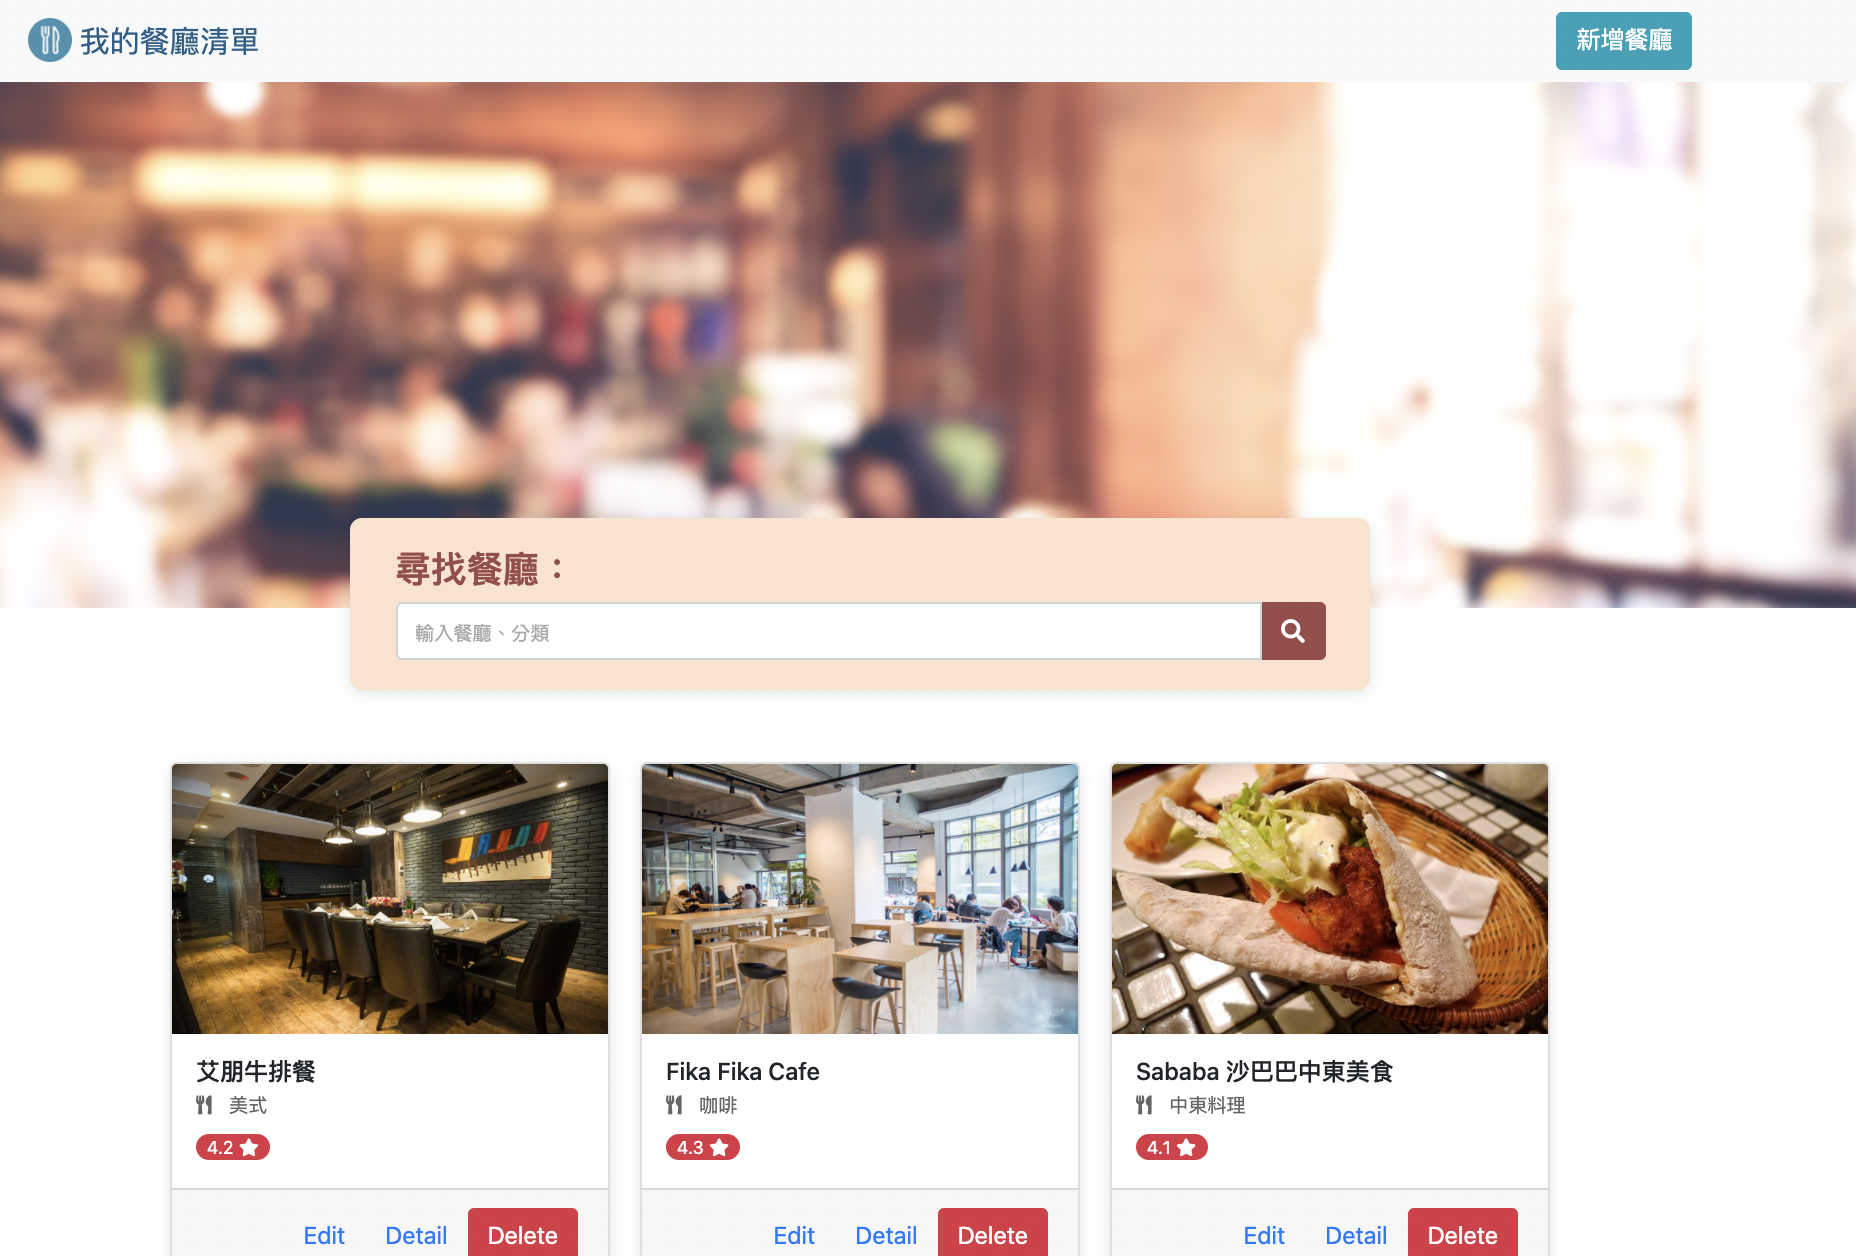
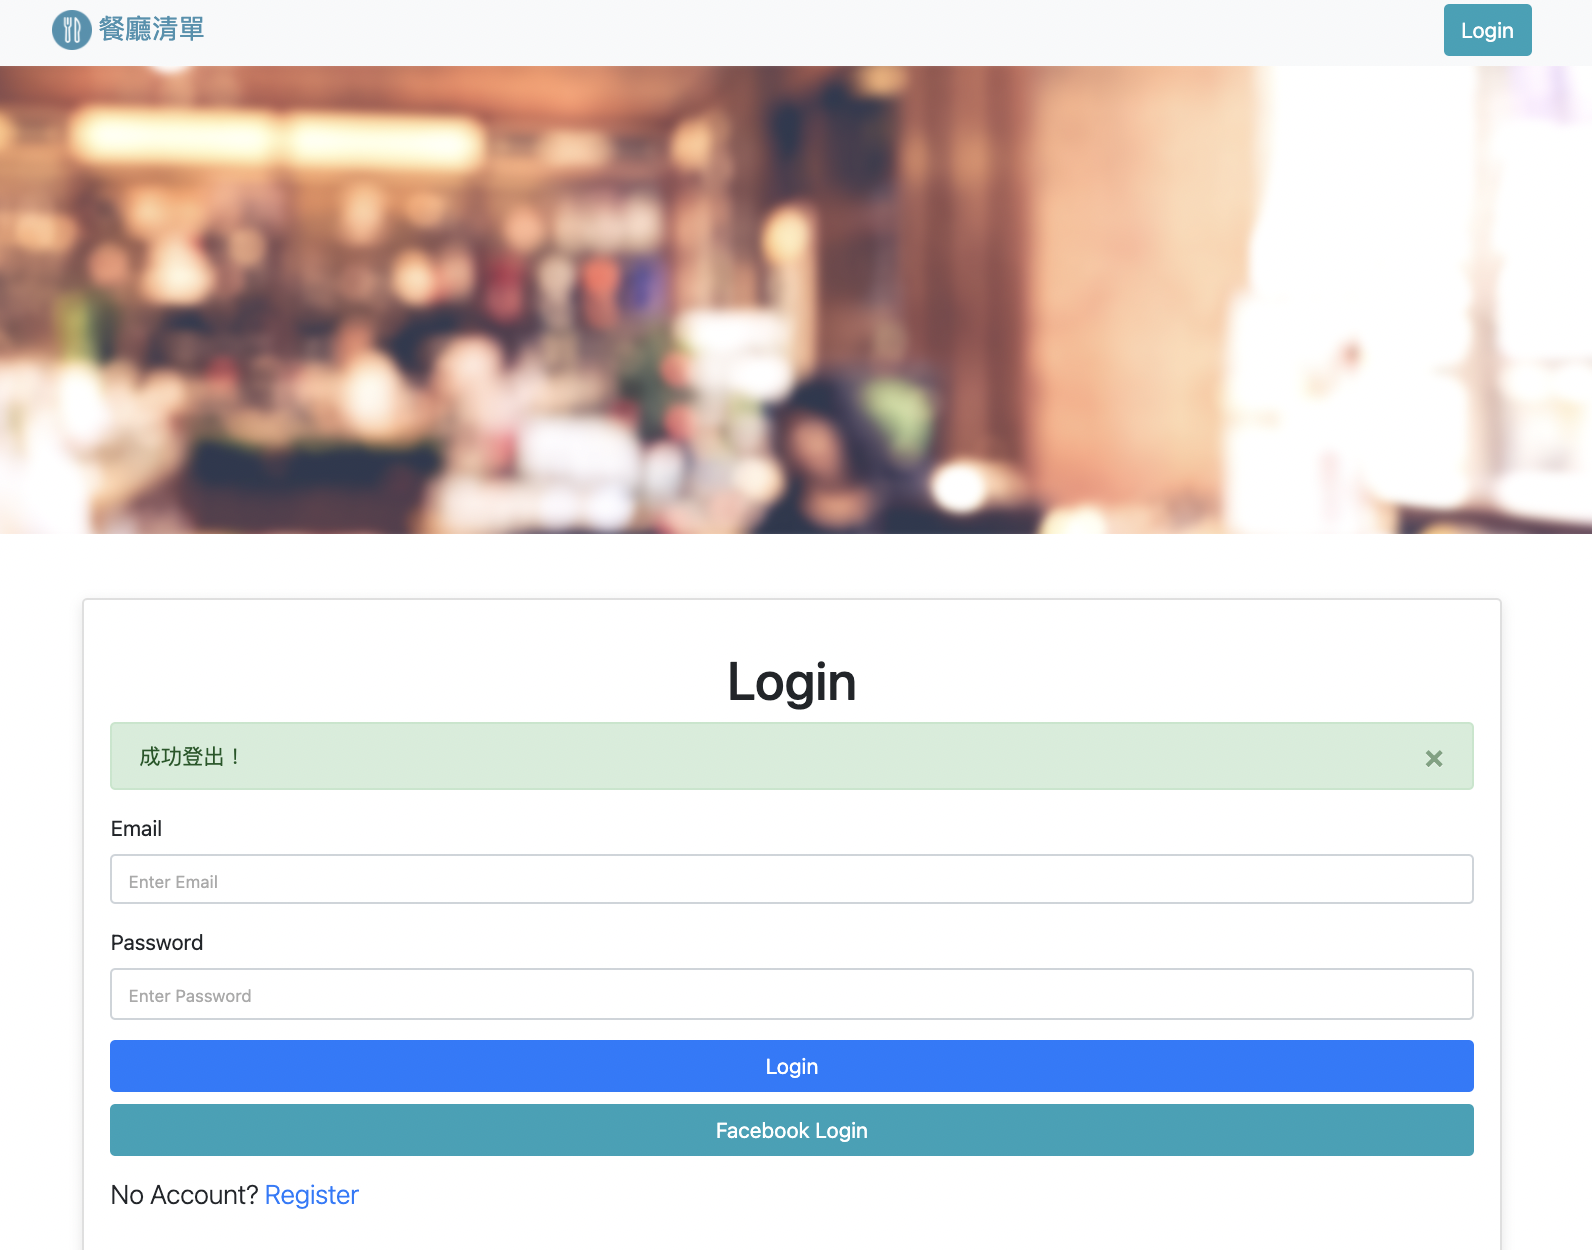
Add: README.md

diff --git a/routes/modules/home.js b/routes/modules/home.js
@@ -14,6 +14,7 @@ router.get('/', (req, res) => {
 
 // 搜尋
 router.get('/search', (req, res) => {
+  const userId = req.user._id
   const keyword = req.query.keyword.trim().toLowerCase()
   const sort = req.query.sort
   let sortingMethod = {}
@@ -32,12 +33,12 @@ router.get('/search', (req, res) => {
       break;
   }
   Restaurant
-    .find()
+    .find({userId})
     .lean()
     .sort(sortingMethod)
     .then(items => {
       const restaurants = items.filter(item => item.name.trim().toLowerCase().includes(keyword) || item.category.trim().toLowerCase().includes(keyword))
-      res.render('index', { restaurantList: restaurants})
+      res.render('index', { restaurantList: restaurants, keyword})
     })
     .catch(err => console.log(err))
 })

diff --git a/config/mongoose.js b/config/mongoose.js
@@ -1,3 +1,6 @@
+if (process.env.NODE_ENV !== 'production') {
+  require('dotenv').config()
+}
 const mongoose = require('mongoose')
 const MONGODB_URI = process.env.MONGODB_URI
 mongoose.connect(MONGODB_URI)

diff --git a/README.md b/README.md
@@ -4,7 +4,7 @@
 
 ## 介紹
 
-紀錄屬於自己的餐廳清單，可以瀏覽餐廳、查看詳細資訊、甚至連結到地圖。
+紀錄屬於自己的餐廳清單，可以在此網站上擁有自己的帳號管理餐廳名單，並且能夠瀏覽餐廳、查看詳細資訊、甚至連結到地圖。
 
 ### 功能
 
@@ -15,6 +15,9 @@
 - 新增餐廳
 - 編輯餐廳
 - 刪除餐廳
+- 登入與登出
+- 註冊帳號
+- 可用 Facebook 登入
 
 ## 開始使用
 
@@ -29,7 +32,7 @@
 4. 安裝完畢後，繼續輸入：
 
    ```bash
-   npm run start
+   npm run dev
    ```
 
 5. 若看見此行訊息則代表順利運行，打開瀏覽器進入到以下網址
@@ -38,7 +41,12 @@
    Listening on http://localhost:3000
    ```
 
-6. 若欲暫停使用
+6. 建立種子使用者資料，種子使用者密碼在 models/seeds/restaurantSeeder.js
+   ```bash
+   npm run seed
+   ```
+
+7. 若欲暫停使用
 
    ```bash
    ctrl + c
@@ -46,11 +54,15 @@
 
 ## 開發工具
 
-- Node.js 14.18.0
-- Express 4.17.1
-- Express-Handlebars 5.3.3
-- Bootstrap 4.3.1
-- Font-awesome 5.8.1
+- node.js 14.18.0
+- express 4.17.3
+- express-Handlebars 3.0.0
+- bootstrap 4.3.1
+- font-awesome 5.8.1
+- passport 0.5.2
+- passport-local 3.0.0
+- passport-facebook 3.0.0
+- bcryptjs 2.4.3
 
 - MongoDB
 - mongoose 6.0.5
